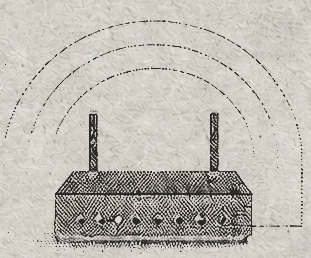
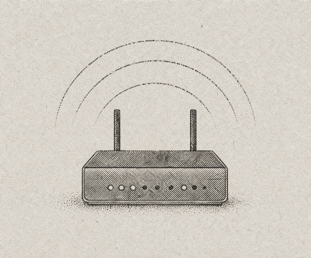
feat(site): update router images

diff --git a/site/index.html b/site/index.html
@@ -286,16 +286,14 @@ html:not([data-theme="dark"]) .mode-toggle .mi-dark { display: block; }
   font-size: .62rem; letter-spacing: .16em; color: var(--ink-3);
 }
 .hero-sig::after { content: ""; display: block; width: 1.1em; border-top: 1px solid var(--ink-3); margin: .5em 0 0 auto; }
-/* same drawing, two cuts at one size. The light one is opaque ink-on-paper with a
-   warm ~207-luminance ground: saturate neutralizes the yellow cast, brightness then
-   clears every channel past white so multiply dissolves the rectangle into the
-   sheet, and contrast puts the lost stroke weight back. The dark one is the strokes
-   alone on alpha and needs none of it. */
+/* Same drawing, two paper-native cuts at one size. The light cut uses multiply to
+   dissolve its pale paper into the sheet; the dark cut uses lighten so its charcoal
+   ground disappears while the warm cream ink remains. */
 .router {
   display: block; width: min(100%, 339px); height: auto;
   mix-blend-mode: multiply; filter: saturate(.5) brightness(1.26) contrast(1.05);
 }
-.router.th-dark { mix-blend-mode: normal; filter: none; }
+.router.th-dark { mix-blend-mode: lighten; filter: none; }
 
 /* ── status rows ──────────────────────────────────── */
 .status { width: 100%; border-collapse: collapse; margin: 1.2rem 0 1.8rem; font-size: .8rem; }
